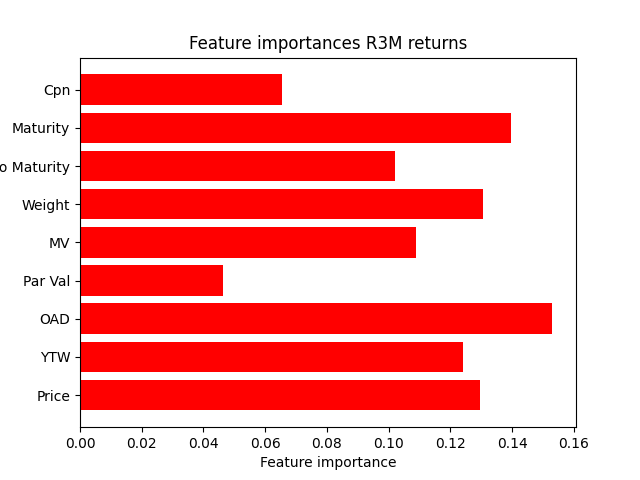
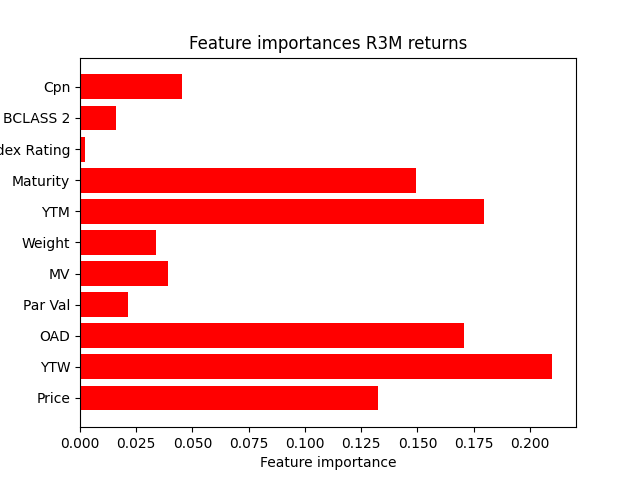
xgb and rf ran

diff --git a/RandomForest/randomForest.py b/RandomForest/randomForest.py
@@ -10,12 +10,10 @@ from sklearn.model_selection import GridSearchCV
 
 data = pd.read_csv('bonds.csv', low_memory=False)
 
-def random_forest(X, y, params):
+def random_forest(X, y, model):
     X_train, X_test, y_train, y_test = train_test_split(X, y, test_size=0.2, random_state=42)
 
     print("  starting to train model...")
-    
-    model = RandomForestRegressor(random_state=42, n_jobs=6, **params)
 
     model.fit(X_train, y_train)
 
@@ -38,6 +36,7 @@ def random_forest(X, y, params):
     plt.barh(X.columns, coefs, color="r", align="center")
     plt.xlabel("Feature importance")
     plt.ylabel("Feature")
+    plt.tight_layout()
     plt.savefig("RandomForest/feature_importances_" + y.name + ".png", format="png")
     plt.close()
     
@@ -66,6 +65,7 @@ def decision_tree(X, y):
 
     plt.figure(figsize=(17, 10))
     tree.plot_tree(model, feature_names=X.columns, filled=True, rounded=True, fontsize=11, class_names=True, proportion=True)
+    plt.tight_layout()
     plt.savefig("RandomForest/decision_tree_" + y.name + ".png", format="png", dpi=300, bbox_inches='tight')
     plt.close()
 
@@ -73,22 +73,22 @@ def decision_tree(X, y):
 
     return mse, r2, hit_ratio
 
-def best_params(X, y):
+def best_estimator(X, y):
     X_subset = X.sample(frac=0.1, random_state=42)
     y_subset = y[X_subset.index]
     X_train, X_test, y_train, y_test = train_test_split(X_subset, y_subset, test_size=0.2, random_state=42)
 
-    print("  starting to train model...")
+    print("  looking for best model...")
     
     params_grid = {
         'n_estimators': [100, 200, 300],
-        'max_features': ['auto', 'sqrt', 'log2'],
+        'max_features': ['sqrt', 'log2'],
         'max_depth': [3, 5, 7, 9],
         'min_samples_split': [2, 4, 6, 8],
         'min_samples_leaf': [1, 2, 3, 4]
     }
 
-    model = RandomForestRegressor(random_state=42, n_jobs=6)
+    model = RandomForestRegressor(random_state=42, n_jobs=-1)
 
     grid_search = GridSearchCV(estimator=model, param_grid=params_grid, cv=3, scoring='neg_mean_squared_error')
     grid_search.fit(X_train, y_train)
@@ -107,8 +107,8 @@ if __name__ == "__main__":
         print("Starting to process " + i)
         y = data[i]
         x = data.select_dtypes(include='number').drop(returns, axis=1)
-        params = best_params(x, y)
-        mse, r2, hit_ratio = random_forest(x, y, params)
+        model = best_estimator(x, y)
+        mse, r2, hit_ratio = random_forest(x, y, model)
         results = results._append({'Target': i, 'MSE': mse, 'R2': r2, 'Hit Ratio': hit_ratio}, ignore_index=True)
     results.to_csv('RandomForest/results_rf.csv', index=False)
 

diff --git a/DataPreprocessing/preprocessing.py b/DataPreprocessing/preprocessing.py
@@ -30,7 +30,19 @@ def clean_data(data):
     data = data.drop(columns=['Coupon'])
     data = data.rename(columns={'Maturity.1': 'Maturity Date'})
     data = data.drop(columns=['Description', 'Ccy', 'Issuer', 'Maturity Date'])
+    data.rename(columns={'Yield to Maturity': 'YTM'}, inplace=True)
     return data
+
+def categorical_to_numeric(data):
+    data = data[data['Payment Rank'].str.contains('1st lien', na=False)]
+    data = data.drop(columns=['Payment Rank'])
+    data['Index Rating (String)'] = data['Index Rating (String)'].replace(['A2', 'A3', 'BAA3', 'BAA1', 'BAA2', 'AA3', 'A1', 'AA2',  'AA1', 'AAA'], 'Investment Grade')
+    data['Index Rating (String)'] = data['Index Rating (String)'].replace(['BA3', 'B3','BA1', 'B1', 'BA2', 'CAA1', 'CAA2', 'CAA3', 'NR', 'CA', 'D', 'C', 'B2'], 'High Yield')
+    data['Index Rating (String)'] = data['Index Rating (String)'].map({'Investment Grade': 1, 'High Yield': 0})
+    data = data.rename(columns={'Index Rating (String)': 'Index Rating'})
+    data['BCLASS 2'] = data['BCLASS 2'].map({'FINANCIAL_INSTITUTIONS': 1, 'INDUSTRIAL': 2, 'UTILITY': 3})
+    return data
+
 def calculate_returns(data):
     data = data.sort_values(['ISIN', 'Date'])
     data['R1M'] = data.groupby('ISIN')['Price'].pct_change()
@@ -57,6 +69,7 @@ def main():
         print(i)
     data = pd.concat(dfs, ignore_index=True)
     data = clean_data(data)
+    data = categorical_to_numeric(data)
     data = calculate_returns(data)
 
     data.to_csv('bonds.csv', index=False)

diff --git a/GradientBoosting/xg_boost.py b/GradientBoosting/xg_boost.py
@@ -13,7 +13,7 @@ def xgboost(X, y, params):
 
     print("  starting to train model...")
     
-    model = XGBRegressor(n_estimators=100, random_state=42, n_jobs=6, **params)
+    model = XGBRegressor(**params)
 
     
     model.fit(X_train, y_train)
@@ -37,7 +37,8 @@ def xgboost(X, y, params):
     plt.barh(X.columns, coefs, color="r", align="center")
     plt.xlabel("Feature importance")
     plt.ylabel("Feature")
-    plt.savefig("XGBoost/feature_importances_" + y.name + ".png", format="png")
+    plt.tight_layout()
+    plt.savefig("GradientBoosting/feature_importances_" + y.name + ".png", format="png")
     plt.close()
     
     return mse, r2, hit_ratio
@@ -49,13 +50,14 @@ def best_params(X, y):
     
     print("  starting to train model...")
     
-    model = XGBRegressor()
+    model = XGBRegressor(random_state=42, n_jobs=-1)
     
     params = {
         'n_estimators': [100, 200, 300],
-        'max_depth': [3, 4, 5, 6],
         'learning_rate': [0.1, 0.01, 0.001],
-        'booster': ['gbtree', 'gblinear', 'dart']
+        'booster': ['gbtree', 'gblinear', 'dart'],
+        'max_depth': [3, 5, 7],
+        'gamma': [0, 0.1, 0.2]
     }
     
     grid = GridSearchCV(model, params, n_jobs=6, cv=5)

diff --git a/Regression/regression.py b/Regression/regression.py
@@ -6,8 +6,6 @@ from sklearn.linear_model import LinearRegression, Lasso, ElasticNet, Ridge
 from sklearn.model_selection import train_test_split
 from sklearn.metrics import mean_squared_error, r2_score
 
-data = pd.read_csv('bonds.csv', low_memory=False)
-
 def linear_regression(X, y):
     X_scaled = preprocessing.scale(X)
     X_train, X_test, y_train, y_test = train_test_split(X_scaled, y, test_size=0.2, random_state=42)
@@ -24,11 +22,12 @@ def linear_regression(X, y):
 
     coefs = pd.Series(abs(model.coef_))
 
-    plt.figure()
+    plt.figure(figsize=(12, 8))
     plt.title("Feature importances " + y.name + " returns")
-    plt.barh(X.columns, coefs, color="r", align="center")
+    plt.barh(X.columns, coefs, color="b", align="center")
     plt.xlabel("Feature importance")
     plt.ylabel("Feature")
+    plt.tight_layout() 
     plt.savefig("Regression/feature_importances_" + y.name + ".png", format="png")
     plt.close()
 
@@ -88,6 +87,7 @@ def ridge_regression(X, y_penalized):
 
 
 if __name__ == '__main__':
+    data = pd.read_csv('bonds.csv', low_memory=False)
     returns = ['R1M', 'R3M', 'R6M', 'R12M']
     results = pd.DataFrame(columns=['Target', 'MSE', 'R2', 'Hit Ratio'])
 

diff --git a/DataPreprocessing/eda.py b/DataPreprocessing/eda.py
@@ -39,7 +39,7 @@ def plot_categorical_distribution(df, column):
         ax.set_ylabel('Frequency')
         ax.set_xlabel(i)
         ax.set_xticks(range(len(df[i].unique())))
-        ax.set_xticklabels(df[i].unique(), rotation=60)
+        ax.set_xticklabels(sorted(df[i].unique()), rotation=60)
         ax.set_title(i + ' Distribution')
         plt.tight_layout()
         plt.savefig('DataPreprocessing/' + i + '_Distribution.png')
@@ -59,6 +59,6 @@ if __name__ == '__main__':
     df = pd.read_csv('bonds.csv', low_memory=False)
     plot_column(df, ['Price', 'R1M','R3M','R6M','R12M'])
     plot_seasonal(df)
-    plot_categorical_distribution(df, ['Index Rating (String)','BCLASS 2','Payment Rank'])
+    plot_categorical_distribution(df, ['Index Rating (String)','BCLASS 2'])
     plot_distribution(df, ['Cpn', 'Maturity'])
 
